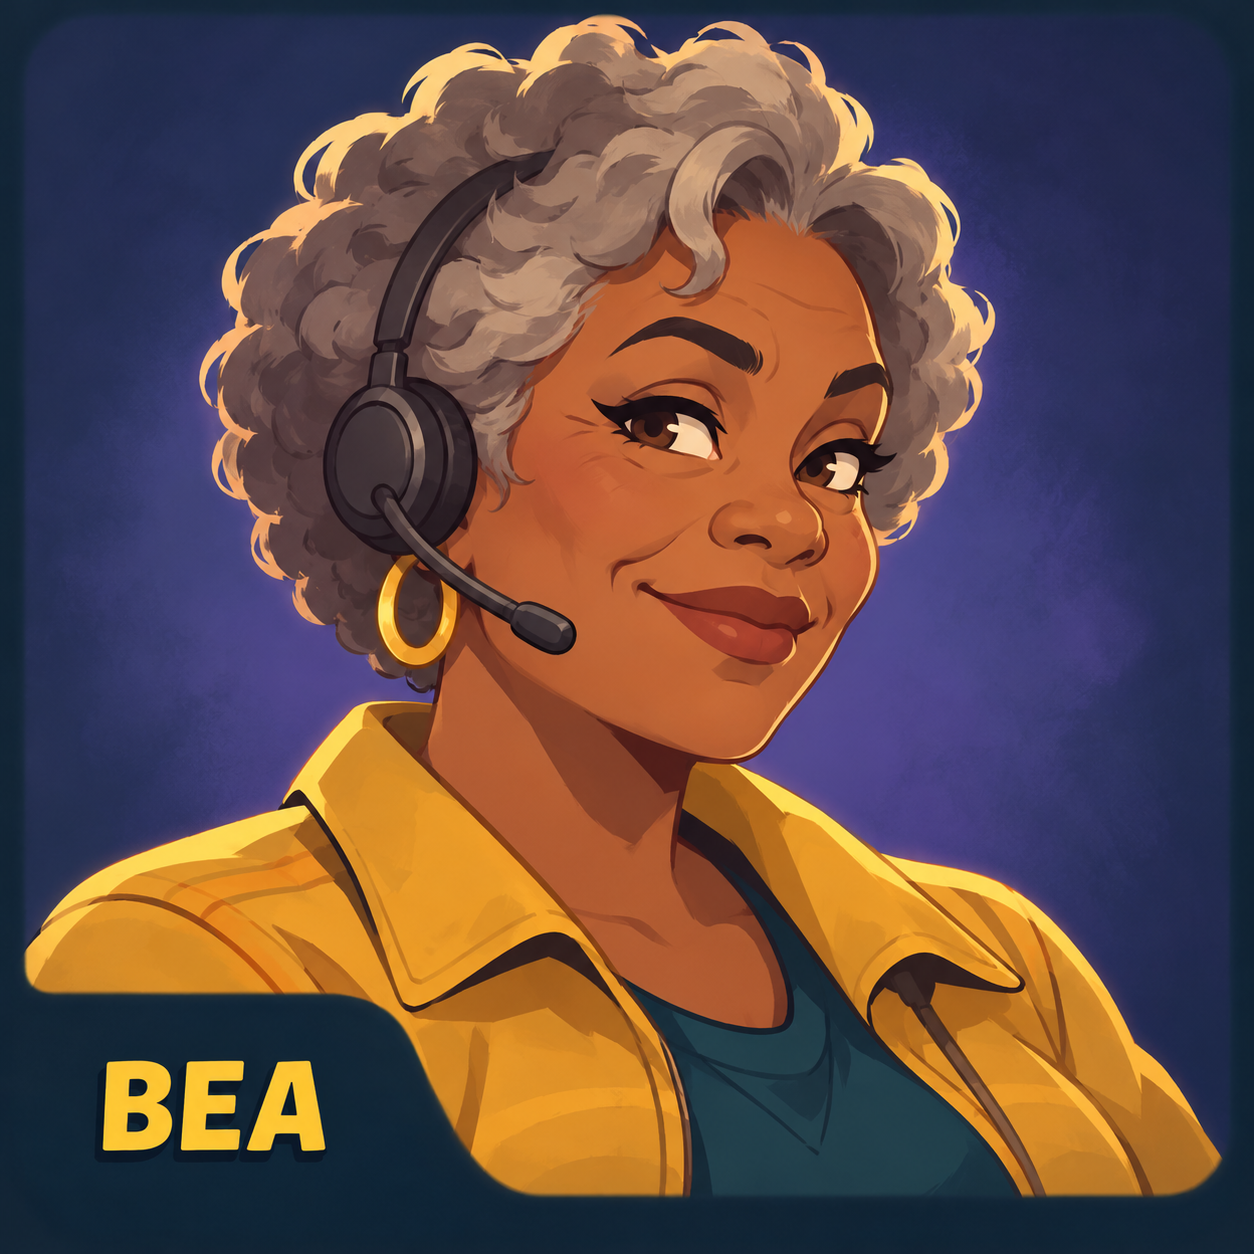
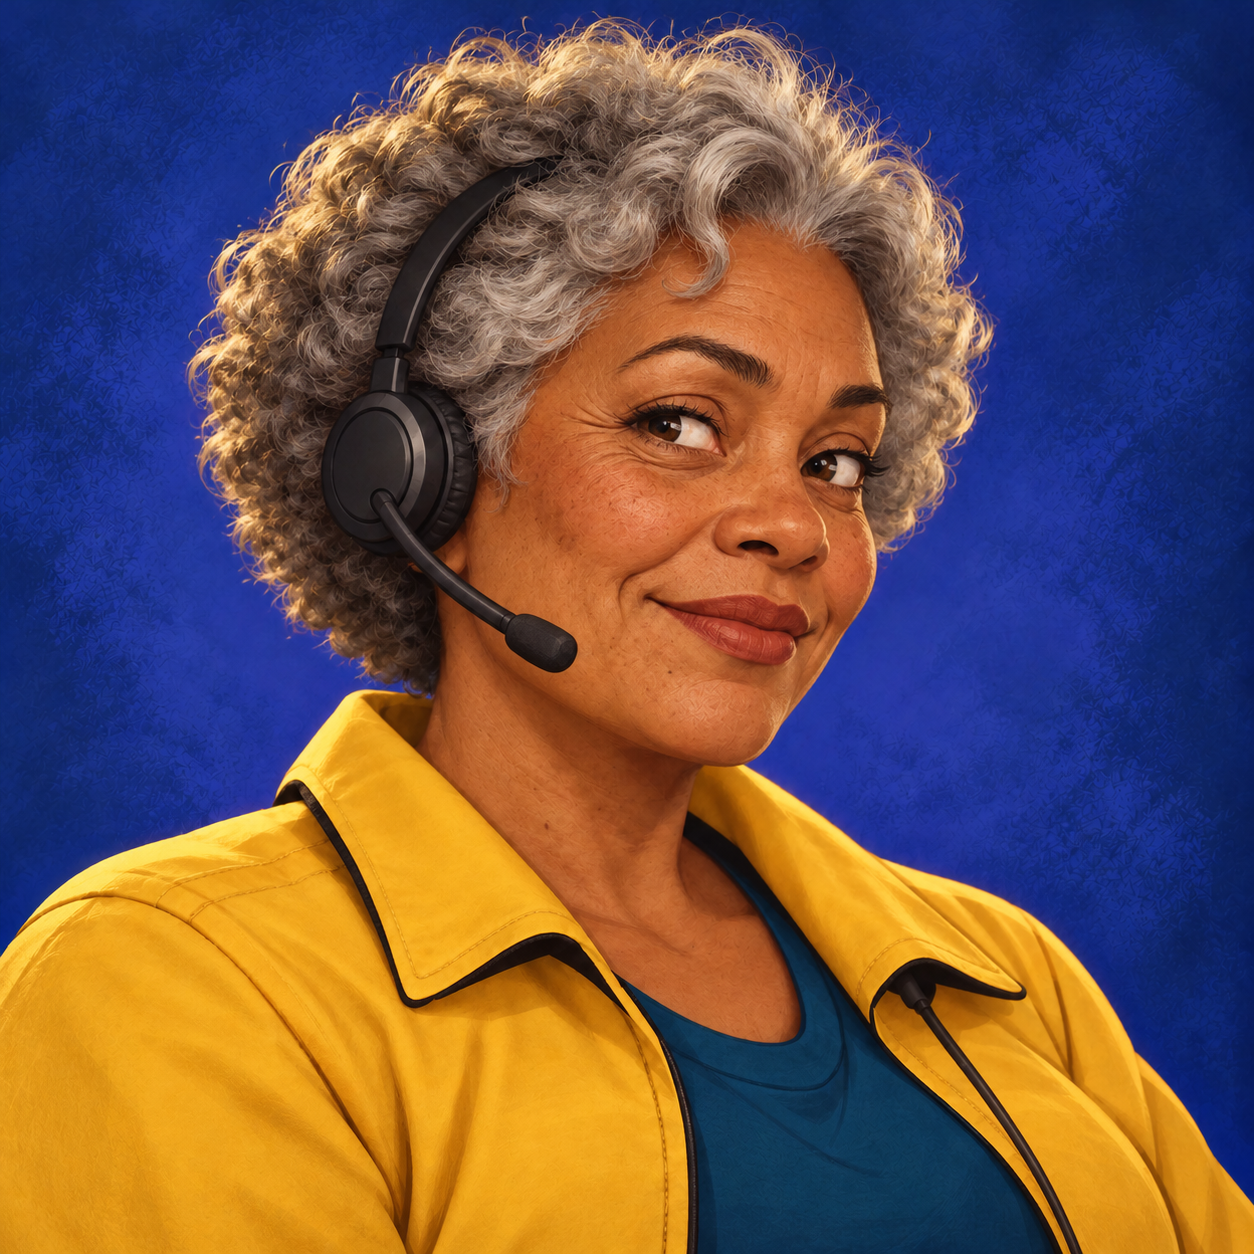
Complete PNG portrait migration and preserve legacy character references

diff --git a/src/characters.test.ts b/src/characters.test.ts
@@ -14,9 +14,14 @@ describe('portrait registry', () => {
     for (const id of portraitSourceIds) expect(portraits[id].src.startsWith(`data:${mime[portraits[id].format]}`)).toBe(true);
   });
 
-  it('bundles supplied raster portraits alongside provisional SVG identities', () => {
-    const formats = new Set(Object.values(portraits).map(({ format }) => format));
-    expect(formats).toEqual(new Set<PortraitFormat>(['svg', 'png']));
+  it('declares exactly the supplied PNG portraits, with no leftover vector identities', () => {
+    // The supplied cast is raster-only now, so the manifest must match the folder and
+    // every entry must be a PNG rather than a stale SVG identity card.
+    expect(portraitSourceIds.every(id => id.endsWith('.png'))).toBe(true);
+    expect(new Set(Object.values(portraits).map(({ format }) => format))).toEqual(new Set<PortraitFormat>(['png']));
+    expect([...portraitSourceIds]).toContain('officer.png');
+    expect([...portraitSourceIds]).toContain('legacy-mia.png');
+    expect([...portraitSourceIds]).toContain('legacy-frankie.png');
   });
 });
 
@@ -34,6 +39,22 @@ describe('character catalogue', () => {
     }
   });
 
+  it('attributes each supplied PNG portrait and keeps the legacy placeholders distinct', () => {
+    // Every attribution names the actual portrait file(s) the character ships, so the
+    // supplied raster cast never keeps a stale vector-identity or placeholder claim.
+    const legacy = new Set(['mia', 'frankie']);
+    for (const [id, character] of Object.entries(characters)) {
+      for (const source of character.portrait.sources) expect(character.attribution).toContain(source);
+      if (legacy.has(id)) {
+        expect(character.attribution).toContain('Neutral legacy placeholder card');
+        expect(character.attribution).toContain('not shipped');
+      } else {
+        expect(character.attribution).toContain('Portrait art supplied for Taxi Chaos');
+        expect(character.attribution).not.toMatch(/placeholder|identity card/i);
+      }
+    }
+  });
+
   it('looks up typed ids and rejects unknown speakers', () => {
     expect(getCharacter('mia')).toMatchObject({ id: 'mia', name: 'Mia' });
     expect(getCharacter('frankie').name).toBe('Frankie');
@@ -42,10 +63,17 @@ describe('character catalogue', () => {
     expect(isCharacterId('toString')).toBe(false);
   });
 
-  it('resolves the authored format, preferring the raster for live dialogue', () => {
-    expect(resolvePortrait(characters.mia)).toMatchObject({ source: 'mia.png', format: 'png' });
-    expect(resolvePortrait(characters.frankie)).toMatchObject({ source: 'frankie.png', format: 'png' });
-    expect(portraits['mara.svg'].format).toBe('svg');
+  it('keeps the legacy ids on their own neutral placeholders, never a reassigned cast portrait', () => {
+    // `mia` and `frankie` stay stable because the legacy mission catalogue and the
+    // dialogue preview reference them. Their supplied rasters are gone, so they must
+    // fall back to the dedicated placeholder cards rather than borrow Mara or Celia.
+    expect(resolvePortrait(characters.mia)).toMatchObject({ source: 'legacy-mia.png', format: 'png' });
+    expect(resolvePortrait(characters.frankie)).toMatchObject({ source: 'legacy-frankie.png', format: 'png' });
+    const castSources = new Set(Object.entries(characters)
+      .filter(([id]) => !['mia', 'frankie'].includes(id))
+      .flatMap(([, character]) => character.portrait.sources));
+    expect(castSources.has('legacy-mia.png')).toBe(false);
+    expect(castSources.has('legacy-frankie.png')).toBe(false);
   });
 
   it('resolves the right name and portrait when the speaker changes', () => {
@@ -57,22 +85,33 @@ describe('character catalogue', () => {
   });
 
   it('rejects invalid metadata instead of shipping it', () => {
-    const base = characters.mia;
+    const base = characters.mara;
     const withPortrait = (portrait: Partial<CharacterPortrait>): Character => ({ ...base, portrait: { ...base.portrait, ...portrait } });
     expect(() => validateCharacterCatalogue({ mystery: { ...base, id: 'someone-else' } })).toThrow(/id mismatch/);
-    expect(() => validateCharacterCatalogue({ mia: withPortrait({ sources: ['missing.png'] as never }) })).toThrow(/unknown portrait/);
-    expect(() => validateCharacterCatalogue({ mia: withPortrait({ objectPosition: 'sideways' }) })).toThrow(/objectPosition/);
-    expect(() => validateCharacterCatalogue({ mia: withPortrait({ crop: { x: 0.5, y: 0, width: 0.8, height: 1 } }) })).toThrow(/crop/);
-    expect(() => validateCharacterCatalogue({ mia: withPortrait({ crop: { x: 0, y: 0, width: 0, height: 1 } }) })).toThrow(/crop/);
+    expect(() => validateCharacterCatalogue({ mara: withPortrait({ sources: ['missing.png'] as never }) })).toThrow(/unknown portrait/);
+    expect(() => validateCharacterCatalogue({ mara: withPortrait({ objectPosition: 'sideways' }) })).toThrow(/objectPosition/);
+    expect(() => validateCharacterCatalogue({ mara: withPortrait({ crop: { x: 0.5, y: 0, width: 0.8, height: 1 } }) })).toThrow(/crop/);
+    expect(() => validateCharacterCatalogue({ mara: withPortrait({ crop: { x: 0, y: 0, width: 0, height: 1 } }) })).toThrow(/crop/);
   });
 });
 
 describe('portrait layout', () => {
+  // Framing is exercised with explicit fixtures so the maths never depends on which
+  // raster a particular cast member happens to ship today.
+  const framed = (portrait: CharacterPortrait): Character => ({ id: 'framing-fixture', name: 'Framing fixture', portrait, attribution: 'Test fixture for Taxi Chaos framing.' });
+
   it('fills the frame with the configured focal point when there is no crop', () => {
-    expect(portraitLayout(characters.mia)).toMatchObject({ objectFit: 'cover', objectPosition: '50% 14%', width: '100%', height: '100%', left: '0%', top: '0%' });
+    expect(portraitLayout(framed({ sources: ['celia.png'], objectPosition: '50% 14%' })))
+      .toMatchObject({ objectFit: 'cover', objectPosition: '50% 14%', width: '100%', height: '100%', left: '0%', top: '0%' });
+  });
+
+  it('defaults to a centred focal point when none is authored', () => {
+    expect(portraitLayout(framed({ sources: ['celia.png'] })))
+      .toMatchObject({ objectPosition: '50% 50%', width: '100%', height: '100%' });
   });
 
   it('scales and offsets the source for a configured crop', () => {
-    expect(portraitLayout(characters.frankie)).toMatchObject({ objectPosition: '50% 50%', width: '113.6364%', height: '100%', left: '-6.8182%', top: '0%' });
+    expect(portraitLayout(framed({ sources: ['celia.png'], objectPosition: '50% 50%', crop: { x: 0.06, y: 0, width: 0.88, height: 1 } })))
+      .toMatchObject({ objectPosition: '50% 50%', width: '113.6364%', height: '100%', left: '-6.8182%', top: '0%' });
   });
 });

diff --git a/src/story.test.ts b/src/story.test.ts
@@ -32,7 +32,9 @@ describe('authored pickup conversations', () => {
     // The view resolves the display name and raster portrait from the character catalogue.
     const speaker = messageCharacter(g.dialogue.active!.message);
     expect(speaker.name).toBe('Mia');
-    expect(resolvePortrait(speaker)).toMatchObject({ source: 'mia.png', format: 'png' });
+    // `mia` keeps its stable id and display name, but resolves its own neutral legacy
+    // placeholder rather than borrowing another cast member's supplied portrait.
+    expect(resolvePortrait(speaker)).toMatchObject({ source: 'legacy-mia.png', format: 'png' });
     const active = g.dialogue.active;
     run(g, 1); expect(g.dialogue.active).toBe(active); expect(g.dialogue.letters).toBeGreaterThan(STORY_LETTERS_PER_SECOND);
   });
@@ -62,11 +64,13 @@ describe('authored pickup conversations', () => {
     expect(g.dialogue.active?.elapsed).toBe(0);
   });
 
-  it('clears on completion, abandonment and explicit story reset; recurring Mia fares are not story missions', () => {
+  it('clears on completion, abandonment and explicit story reset; recurring ordinary fares are not story missions', () => {
     const g = make(); collect(g);
     g.player.body.position = { ...g.job.dropoff }; run(g, 0.9);
     expect(g.jobsDone).toBe(1); expect(g.dialogue.active).toBeNull();
-    g.offer = 7; g.newJob(); expect(g.job.name).toBe('Mia'); expect(g.job.missionId).toBeUndefined(); collect(g);
+    // Ordinary fares draw their name from the ambient passenger pool, which no longer
+    // carries the story cast, so they stay plain jobs with no mission id.
+    g.offer = 7; g.newJob(); expect(g.job.name).toBe('Cleo'); expect(g.job.missionId).toBeUndefined(); collect(g);
     expect(g.dialogue.active).toBeNull();
     // A new shift preserves persistent story; the opening mission does not replay.
     g.resetRun(); expect(g.dialogue.active).toBeNull(); collect(g);

diff --git a/src/game.ts b/src/game.ts
@@ -49,7 +49,7 @@ export { upgradeInfo, type Upgrade } from './vehicle-upgrades';
 export const defaultSave = (definition = campaignDefinition): Save => ({ cash: 80, deliveries: 0, garage: null, best: 0, story: defaultMissionProgress(), playerRecords: defaultPlayerRecords(), campaign: defaultCampaign(definition) });
 function loadSave(definition = campaignDefinition): Save { try { const s = JSON.parse(readStorage(storageKeys.save) ?? 'null'); if (!s || s.story?.version !== 1 || s.playerRecords?.version !== 1 || s.campaign?.version !== 2) return defaultSave(definition); const d = defaultSave(definition); d.cash = clamp(Number(s.cash) || 0, 0, 1e7); d.deliveries = clamp(Number(s.deliveries) || 0, 0, 1e5); d.best = Number(s.best) || 0; d.story = parseMissionProgress(s.story); d.playerRecords = parsePlayerRecords(s.playerRecords); d.campaign = parseCampaign(s.campaign, definition, { progress: d.story, records: d.playerRecords }); d.garage = s.garage ? parseGarage(s.garage) : s.upgrades ? legacyGarage(s.upgrades) : null; return d; } catch { return defaultSave(definition); } }
 function loadSettings(): Settings { const settings = defaultSettings(); try { const s = JSON.parse(readStorage(storageKeys.settings) ?? 'null'); if (s) { settings.gore = s.gore === true; if (Object.hasOwn(difficulties, s.difficulty)) settings.difficulty = s.difficulty; } } catch {} return settings; }
-const PASSENGER_NAMES = ['Mia', 'Frankie', 'Jules', 'Ravi', 'Cleo', 'Oscar', 'Sam', 'Ruby'];
+const PASSENGER_NAMES = ['Jules', 'Ravi', 'Cleo', 'Oscar', 'Sam', 'Ruby'];
 const PLACES = ['Noodle Club', 'Vinyl & Co.', 'Garden Café', 'The Arcade', 'Dockside Deli', 'East Village', 'Moonlight Hotel', 'Flower Market'];
 export type Blast = { position: Vec; radius: number; power: number; blamed: boolean; due: number; sourceVehicle?: number; sourceProp?: number };
 export class Game {

diff --git a/src/credits.test.ts b/src/credits.test.ts
@@ -24,8 +24,15 @@ describe('credits page', () => {
     expect(html).toContain('SIL Open Font License 1.1');
     expect(html).toContain('https://github.com/floriankarsten/space-grotesk/blob/master/OFL.txt');
     expect(html).toContain('Drawn procedurally, not texture-based.');
-    expect(html).toContain('User-supplied PNG portraits for Mia, Frankie, Rosa, Celia, Adrian Vale and Bea.');
-    expect(html).toContain('original provisional vector art created for Taxi Chaos.');
+    expect(html).toContain('User-supplied PNG portraits for the Open Shore cast');
+    expect(html).toContain('plus the bundled officer portrait');
+    expect(html).toContain('original neutral placeholder cards (legacy-mia.png, legacy-frankie.png) created for Taxi Chaos');
+    // No stale vector-identity claim, and no separate "identity cards" category, survives
+    // the raster migration: those nine supplied PNGs are part of the cast above.
+    expect(html).not.toContain('SVG identity cards');
+    expect(html).not.toContain('original provisional vector art');
+    expect(html).not.toContain('nine identity cards');
+    expect(html).not.toContain('Identity cards');
   });
 
   it('groups content by functional role with an accessible heading per group', () => {

diff --git a/src/credits.ts b/src/credits.ts
@@ -46,7 +46,7 @@ export function creditsMarkup() {
       `<p class="credit-note">Distributed under the ${link('SIL Open Font License 1.1', 'https://github.com/floriankarsten/space-grotesk/blob/master/OFL.txt')} and embedded in the standalone build.</p>`)}
     ${section('credits-art', 'Art & characters',
       row('City art', 'Drawn procedurally, not texture-based.') +
-      row('Portraits', 'User-supplied PNG portraits for Mia, Frankie, Rosa, Celia, Adrian Vale and Bea.') +
-      row('Identity cards', 'Nine Open Shore SVG identity cards (Mara, Eli, Victor, Leila, Harker, Lena, Iris, Tom and Ruth) are original provisional vector art created for Taxi Chaos.'),
+      row('Portraits', 'User-supplied PNG portraits for the Open Shore cast, plus the bundled officer portrait.') +
+      row('Legacy placeholders', 'Mia and Frankie keep their stable ids on original neutral placeholder cards (legacy-mia.png, legacy-frankie.png) created for Taxi Chaos; no supplied portrait art is shipped for them.'),
       '<p class="credit-note">Every portrait is bundled inline as a data URL, with no external image service.</p>')}`;
 }

diff --git a/tools/prepare-legacy-portraits.py b/tools/prepare-legacy-portraits.py
@@ -1,0 +1,143 @@
+#!/usr/bin/env python3
+"""Regenerate the neutral legacy portrait placeholders.
+
+`mia` and `frankie` stay stable character ids because the authored legacy mission
+catalogue (`src/missions/catalogue.json`) and the dialogue preview reference them.
+Their supplied raster portraits are no longer shipped, so each id falls back to a
+clearly neutral placeholder card: flat slate artwork, a featureless silhouette and
+the initials only. These cards never pretend to be the supplied portraits and are
+not a portrait of any current cast member.
+
+The cards are drawn from original geometry plus the small bitmap glyph set defined
+below, so the tool never reads a system font (no Arial, no downloaded webfont) and
+renders the same bytes on any machine. The supplied raster portraits are never
+touched; only `legacy-mia.png` and `legacy-frankie.png` are written.
+
+Dependency: Pillow (https://python-pillow.org), e.g. `python3 -m pip install Pillow`.
+
+Usage:
+  python3 tools/prepare-legacy-portraits.py               # regenerate the committed cards
+  python3 tools/prepare-legacy-portraits.py --check       # verify committed bytes match
+  python3 tools/prepare-legacy-portraits.py --output DIR  # write the cards into DIR
+"""
+from __future__ import annotations
+
+import argparse
+import io
+import sys
+from pathlib import Path
+
+from PIL import Image, ImageDraw
+
+ROOT = Path(__file__).resolve().parent.parent
+OUT = ROOT / "src" / "assets" / "characters"
+
+W, H = 256, 296
+BACKDROP = (47, 59, 65)
+FRAME = (122, 140, 148)
+FIGURE = (108, 124, 132)
+INK = (240, 230, 207)
+NOTE = (150, 166, 173)
+
+# id -> initials drawn on the card.
+CARDS = {"legacy-mia": "M", "legacy-frankie": "F"}
+LABEL = "LEGACY PLACEHOLDER"
+
+# 5x7 bitmap glyphs, original to this tool. Each row is five cells of "#" (ink) or
+# "." (blank). Only the initials and the label letters are defined, so no font file
+# is read and no glyph is traced from a third-party typeface.
+GLYPHS = {
+    "A": (".###.", "#...#", "#...#", "#####", "#...#", "#...#", "#...#"),
+    "C": (".###.", "#...#", "#....", "#....", "#....", "#...#", ".###."),
+    "D": ("####.", "#...#", "#...#", "#...#", "#...#", "#...#", "####."),
+    "E": ("#####", "#....", "#....", "####.", "#....", "#....", "#####"),
+    "F": ("#####", "#....", "#....", "####.", "#....", "#....", "#...."),
+    "G": (".###.", "#...#", "#....", "#..##", "#...#", "#...#", ".###."),
+    "H": ("#...#", "#...#", "#...#", "#####", "#...#", "#...#", "#...#"),
+    "L": ("#....", "#....", "#....", "#....", "#....", "#....", "#####"),
+    "M": ("#...#", "##.##", "#.#.#", "#...#", "#...#", "#...#", "#...#"),
+    "O": (".###.", "#...#", "#...#", "#...#", "#...#", "#...#", ".###."),
+    "P": ("####.", "#...#", "#...#", "####.", "#....", "#....", "#...."),
+    "R": ("####.", "#...#", "#...#", "####.", "#.#..", "#..#.", "#...#"),
+    "Y": ("#...#", "#...#", ".#.#.", "..#..", "..#..", "..#..", "..#.."),
+    " ": (".....", ".....", ".....", ".....", ".....", ".....", "....."),
+}
+GLYPH_W, GLYPH_H = 5, 7
+GAP = 1
+
+
+def text_width(text: str, scale: int) -> int:
+    """Pixel width of `text` at `scale`, matching the spacing `draw_text` uses."""
+    return len(text) * (GLYPH_W + GAP) * scale - GAP * scale
+
+
+def draw_text(draw: ImageDraw.ImageDraw, text: str, x: int, y: int, scale: int, fill: tuple[int, int, int]) -> None:
+    for index, char in enumerate(text):
+        glyph = GLYPHS[char]
+        origin_x = x + index * (GLYPH_W + GAP) * scale
+        for row, line in enumerate(glyph):
+            for col, cell in enumerate(line):
+                if cell != "#":
+                    continue
+                left, top = origin_x + col * scale, y + row * scale
+                draw.rectangle([left, top, left + scale - 1, top + scale - 1], fill=fill)
+
+
+def card(initials: str) -> Image.Image:
+    image = Image.new("RGB", (W, H), BACKDROP)
+    draw = ImageDraw.Draw(image)
+
+    # A plain frame reads as a placeholder rather than a supplied photograph.
+    draw.rectangle([6, 6, W - 7, H - 7], outline=FRAME, width=2)
+
+    # Featureless silhouette: a head and shoulders with no face, so the card cannot
+    # be mistaken for the removed raster art or for any current cast member.
+    draw.ellipse([W // 2 - 52, 62, W // 2 + 52, 166], fill=FIGURE)
+    draw.polygon(
+        [(W // 2 - 96, H - 46), (W // 2 - 60, 168), (W // 2 + 60, 168), (W // 2 + 96, H - 46)],
+        fill=FIGURE,
+    )
+
+    big_scale = 10
+    draw_text(draw, initials, (W - text_width(initials, big_scale)) // 2, 88, big_scale, INK)
+    small_scale = 2
+    draw_text(draw, LABEL, (W - text_width(LABEL, small_scale)) // 2, H - 40, small_scale, NOTE)
+    return image
+
+
+def render(initials: str) -> bytes:
+    """Encode the card exactly as it is written to disk, so `--check` can compare bytes."""
+    buffer = io.BytesIO()
+    card(initials).save(buffer, "PNG", optimize=True)
+    return buffer.getvalue()
+
+
+def main(argv: list[str] | None = None) -> int:
+    parser = argparse.ArgumentParser(
+        description=__doc__, formatter_class=argparse.RawDescriptionHelpFormatter,
+    )
+    parser.add_argument("--check", action="store_true", help="verify the committed cards match regeneration byte for byte")
+    parser.add_argument("--output", type=Path, default=None, help="write the cards into this directory instead of the committed location")
+    args = parser.parse_args(argv)
+
+    failures = 0
+    for name, initials in CARDS.items():
+        data = render(initials)
+        if args.check:
+            target = OUT / f"{name}.png"
+            actual = target.read_bytes() if target.exists() else None
+            if actual == data:
+                print(f"ok {target.relative_to(ROOT)} ({len(data)} bytes)")
+            else:
+                print(f"stale {target.relative_to(ROOT)}: run python3 tools/prepare-legacy-portraits.py")
+                failures += 1
+        else:
+            target = (args.output or OUT) / f"{name}.png"
+            target.parent.mkdir(parents=True, exist_ok=True)
+            target.write_bytes(data)
+            print(f"wrote {target} ({len(data)} bytes)")
+    return 1 if failures else 0
+
+
+if __name__ == "__main__":
+    sys.exit(main())

diff --git a/src/assets/ATTRIBUTION.md b/src/assets/ATTRIBUTION.md
@@ -7,11 +7,18 @@ https://github.com/floriankarsten/space-grotesk/blob/master/OFL.txt
 
 City art combines procedural drawing and self-contained embedded artwork.
 
-`src/assets/characters/` includes the user-supplied PNG portraits for Mia,
-Frankie, Rosa, Celia, Adrian Vale and Bea. The nine Open Shore SVG identity
-cards (Mara, Eli, Victor, Leila, Harker, Lena, Iris, Tom and Ruth) are original
-provisional vector art created for Taxi Chaos, with initials for clear identity.
-All portraits are bundled inline as data URLs with no external image service.
+`src/assets/characters/` holds the user-supplied PNG portraits for the Open Shore
+cast (Mara, Eli, Victor, Celia, Adrian Vale, Leila, Harker, Lena, Iris, Tom, Ruth
+and Bea) plus the bundled `officer.png`. They are raster art supplied for Taxi
+Chaos and are bundled inline as data URLs with no external image service.
+
+The legacy ids `mia` and `frankie` stay in `src/characters.json` because the
+authored legacy mission catalogue and the dialogue preview reference them. Their
+supplied rasters are no longer shipped, so each resolves to its own neutral
+placeholder card (`legacy-mia.png`, `legacy-frankie.png`): original flat artwork
+created for Taxi Chaos with a featureless silhouette and the initial only,
+regenerated by `tools/prepare-legacy-portraits.py`. These cards are not a portrait
+of any cast member and never stand in for the removed raster art.
 
 Sound FX attribution, source links, licences and editing notes are in
 [`audio/CREDITS.md`](audio/CREDITS.md), embedded in the standalone HTML and
